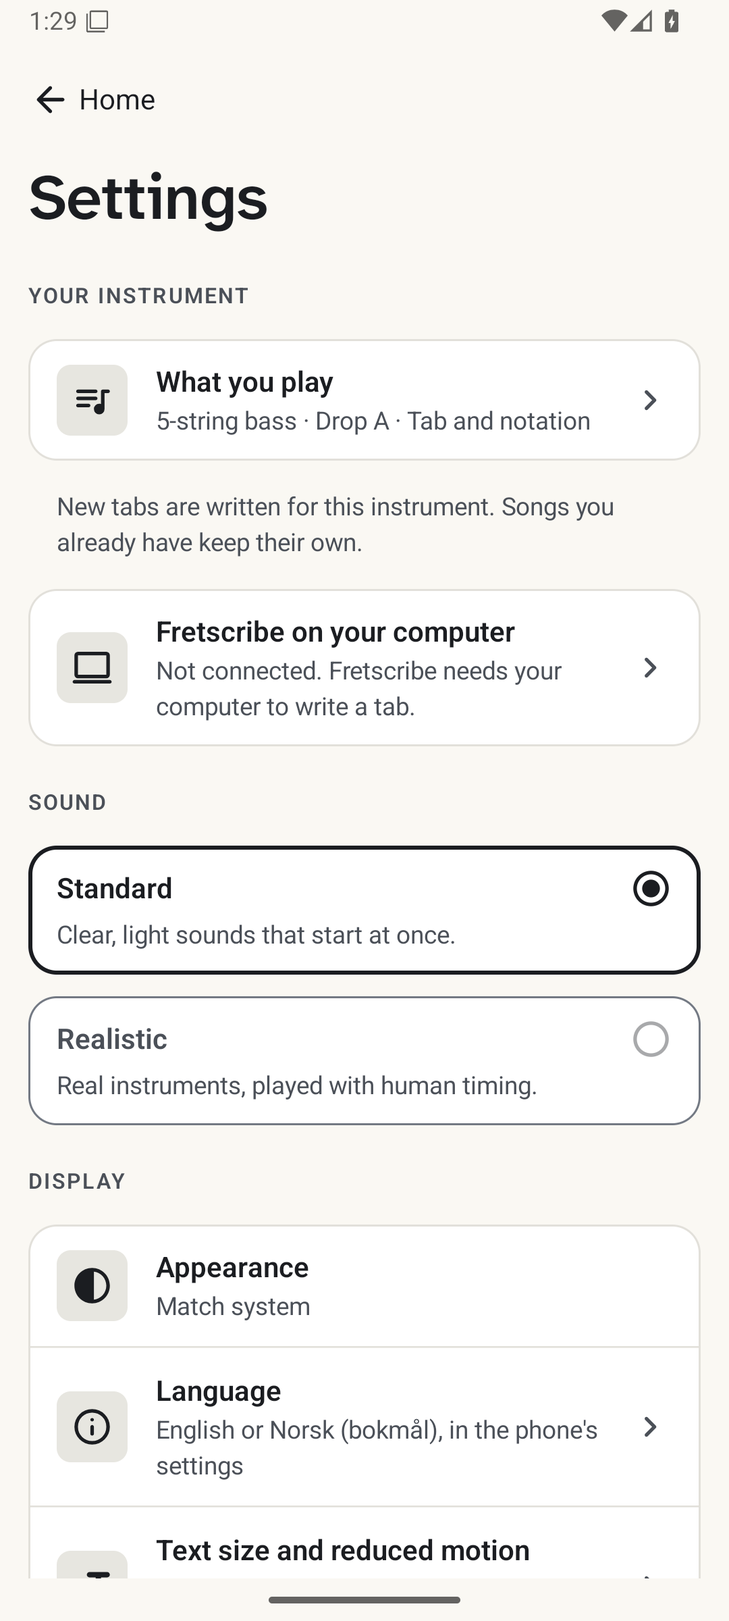
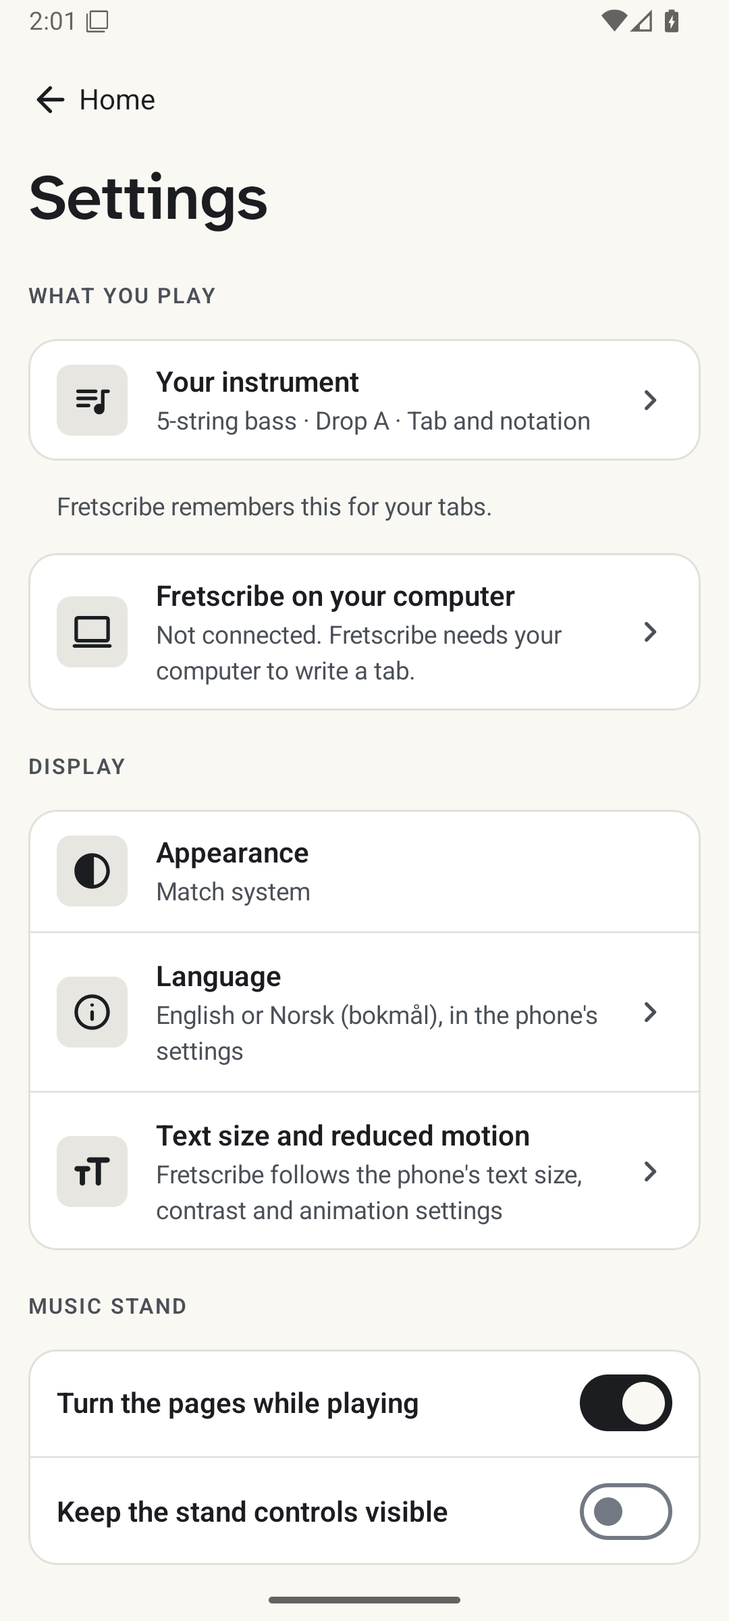
fix(fretscribe): read each row once, start each visit from what is stored, say only what is true
Your instrument's rows are one element each for a screen reader, named once,
with a drop-down mark. Each visit to the screen starts from the stored answer:
choices left without Save are not restored into a later visit. The words say
what the app does today ("Fretscribe remembers this for your tabs", "Tab looks
the same either way"), the hand question is "Which hand is on the neck?", the
flat is written out, and BEAD is spoken letter by letter. The Settings row is
named Your instrument, like the screen it opens.

In src/main, Settings shows the Sound choice only when Product.BAND_SOUNDS is
true; Fretscribe has no band sounds.

diff --git a/apps/android/app/src/androidTestFretscribe/kotlin/no/brasscribe/play/fret/YourInstrumentScreenTest.kt b/apps/android/app/src/androidTestFretscribe/kotlin/no/brasscribe/play/fret/YourInstrumentScreenTest.kt
@@ -5,6 +5,7 @@ import android.graphics.Bitmap
 import androidx.compose.ui.graphics.Color
 import androidx.compose.ui.semantics.Role
 import androidx.compose.ui.semantics.SemanticsActions
+import androidx.compose.ui.semantics.SemanticsNode
 import androidx.compose.ui.semantics.SemanticsProperties
 import androidx.compose.ui.semantics.getOrNull
 import androidx.compose.ui.test.SemanticsMatcher
@@ -165,6 +166,25 @@ class YourInstrumentScreenTest {
         rule.waitForIdle()
     }
 
+    /**
+     * The element is read once. In the tree a screen reader gets, its name is its one description, it has
+     * no text of its own and nothing under it. In the tree as composed, whatever is under it (the question,
+     * the answer, the note, the mark) is either cleared by the element or has no words.
+     */
+    private fun assertSaidOnce(tag: String, prefix: String = "fs-row-") {
+        val read = rule.onNodeWithTag("$prefix$tag").fetchSemanticsNode()
+        assertEquals("$tag: one description", 1, read.config.getOrNull(SemanticsProperties.ContentDescription)?.size)
+        assertEquals("$tag: no text beside the description", null, read.config.getOrNull(SemanticsProperties.Text))
+        assertEquals("$tag: nothing under it is read", emptyList<String>(), read.children.map { it.config.toString() })
+        val composed = rule.onNodeWithTag("$prefix$tag", useUnmergedTree = true).fetchSemanticsNode()
+        fun words(node: SemanticsNode): List<String> = node.children.flatMap { child ->
+            child.config.getOrNull(SemanticsProperties.Text).orEmpty().map { it.text } +
+                child.config.getOrNull(SemanticsProperties.ContentDescription).orEmpty() +
+                (if (child.config.isClearingSemantics) emptyList() else words(child))
+        }
+        if (!composed.config.isClearingSemantics) assertEquals("$tag: no words under it", emptyList<String>(), words(composed))
+    }
+
     private val isRadio = SemanticsMatcher.expectValue(SemanticsProperties.Role, Role.RadioButton)
     private val isPicker = SemanticsMatcher.expectValue(SemanticsProperties.Role, Role.DropdownList)
 
@@ -188,10 +208,10 @@ class YourInstrumentScreenTest {
     fun theFirstRunAsksYourInstrumentInEnglishAndBokmal() {
         val words = mapOf(
             "en-GB" to listOf("Your instrument", "Instrument, Bass", "Strings, 4 strings", "Usual tuning, Standard",
-                "Which hand frets?, Left hand (most players), Tab looks the same either way. Chord boxes and the fretboard turn round.",
+                "Which hand is on the neck?, Left hand on the neck (most players), Tab looks the same either way.",
                 "You read, Tab", "Not now", "Continue", "Guitar, Later"),
             "nb-NO" to listOf("Instrumentet ditt", "Instrument, Bass", "Strenger, 4 strenger", "Vanlig stemming, Standard",
-                "Hvilken hånd tar grepene?, Venstre hånd (de fleste), Tabben ser lik ut uansett. Akkordbokser og gripebrettet snus.",
+                "Hvilken hånd er på halsen?, Venstre hånd på halsen (de fleste), Tabben ser lik ut uansett.",
                 "Du leser, Tab", "Ikke nå", "Fortsett", "Gitar, Senere"),
         )
         for ((lang, w) in words) {
@@ -206,6 +226,7 @@ class YourInstrumentScreenTest {
                 row(tag).performScrollTo().assertIsDisplayed().assertHasClickAction()
                     .assertContentDescriptionEquals(w[1 + i]).assert(isPicker)
                     .assertHeightIsAtLeast(48.dp)
+                assertSaidOnce(tag)
             }
             rule.onNodeWithTag("fs-not-now").assertIsDisplayed().assert(hasText(w[6]))
                 .assertHeightIsAtLeast(48.dp).assertWidthIsAtLeast(48.dp)
@@ -246,9 +267,11 @@ class YourInstrumentScreenTest {
         rule.onNodeWithTag("fs-instrument-bass").assertIsEnabled().assertIsSelected()
         listOf("guitar", "ukulele", "mandolin").forEach { rule.onNodeWithTag("fs-instrument-$it").assertIsNotEnabled().assertIsNotSelected() }
         closePicker()
-        // E♭ is spoken as "E flat".
+        // The flat is written out, and BEAD is spoken letter by letter; each choice is named once.
         open("tuning", "eb-standard")
-        rule.onNodeWithTag("fs-tuning-eb-standard").assertContentDescriptionEquals("E flat standard (half a step down)")
+        rule.onNodeWithTag("fs-tuning-eb-standard").assertContentDescriptionEquals("E-flat standard (half a step down)")
+        rule.onNodeWithTag("fs-tuning-bead").assertContentDescriptionEquals("B, E, A, D")
+        listOf("standard", "eb-standard", "d-standard", "drop-d", "bead").forEach { assertSaidOnce("tuning-$it", prefix = "fs-") }
         closePicker()
     }
 
@@ -292,13 +315,23 @@ class YourInstrumentScreenTest {
         rule.runOnUiThread { vm.navigate(Screen.SETTINGS) }
         rule.waitUntil(5_000) { rule.onAllNodesWithTag("setting-seat").fetchSemanticsNodes().isNotEmpty() }
         rule.onNodeWithText("5-string bass · Drop A · Tab and notation").assertIsDisplayed()
+        // The row is named as the screen it opens, and the band's sound choice is not offered.
+        rule.onNodeWithTag("setting-seat").assert(hasText("Your instrument"))
+        assertTrue(rule.onAllNodesWithText("Realistic").fetchSemanticsNodes().isEmpty())
+        assertTrue(rule.onAllNodesWithText("Sound", ignoreCase = true).fetchSemanticsNodes().isEmpty())
         shot("settings-light")
         rule.onNodeWithTag("setting-seat").performClick()
         rule.waitUntil(5_000) { rule.onAllNodesWithTag("fs-keep").fetchSemanticsNodes().isNotEmpty() }
         assertTrue(rule.onAllNodesWithTag("fs-not-now").fetchSemanticsNodes().isEmpty())
+        // Inside Settings the screen doesn't point to Settings.
+        rule.onNodeWithText("Fretscribe remembers this for your tabs.").assertIsDisplayed()
+        assertTrue(rule.onAllNodesWithText("Settings", substring = true).fetchSemanticsNodes().none { n ->
+            n.config.getOrNull(SemanticsProperties.Text)?.any { it.text.contains("change it in Settings") } == true
+        })
+        shot("your-instrument-settings-light")
         rule.onNodeWithTag("fs-keep").assert(hasText("Save"))
         row("hand").assertContentDescriptionEquals(
-            "Which hand frets?, Right hand, instrument upside down, Tab looks the same either way. Chord boxes and the fretboard turn round.")
+            "Which hand is on the neck?, Right hand on the neck (instrument upside down), Tab looks the same either way.")
         // Back without Save changes nothing.
         pick("reads", "notation")
         rule.runOnUiThread { vm.back() }
@@ -312,6 +345,43 @@ class YourInstrumentScreenTest {
         rule.waitUntil(5_000) { vm.screen.value.last() == Screen.SETTINGS }
         assertEquals(chosen.copy(reads = Reads.NOTATION), store.load())
         rule.onNodeWithText("5-string bass · Drop A · Notation").assertIsDisplayed()
+    }
+
+    @Test
+    fun choicesLeftWithoutSaveAreGoneAfterTheAppIsRestored() {
+        language("en-GB")
+        val stored = YourInstrument(strings = 5, tuning = "drop-a")
+        store.save(stored)
+        fun openFromSettings() {
+            rule.runOnUiThread { vm.home(); vm.navigate(Screen.SETTINGS); vm.openSeatPicker(SeatPickerMode.SETTINGS) }
+            rule.waitUntil(5_000) { rule.onAllNodesWithTag("fs-keep").fetchSemanticsNodes().isNotEmpty() }
+        }
+        openFromSettings()
+        pick("reads", "notation")
+        pick("tuning", "standard")
+        // Restored in the middle of choosing (the activity is destroyed and made again from its saved
+        // state): the choices are still there, and still not stored.
+        rule.activityRule.scenario.recreate()
+        rule.waitUntil(5_000) { rule.onAllNodesWithTag("fs-keep").fetchSemanticsNodes().isNotEmpty() }
+        row("reads").assertContentDescriptionEquals("You read, Notation")
+        row("tuning").assertContentDescriptionEquals("Usual tuning, Standard")
+        assertEquals(stored, store.load())
+        // The app is stopped with the choices on screen, and comes back on Settings (as after the process
+        // was killed, when the screens come back from what was saved but not always to the same one): the
+        // state saved for this visit must not be picked up by the next. Back and the restore are asked for
+        // together, so the state is saved while the screen is still composed.
+        rule.runOnUiThread { vm.back(); rule.activity.recreate() }
+        rule.waitForIdle()
+        rule.waitUntil(5_000) { rule.onAllNodesWithTag("setting-seat").fetchSemanticsNodes().isNotEmpty() }
+        // The row opens on what is stored, and Save stores that.
+        rule.onNodeWithTag("setting-seat").performClick()
+        rule.waitUntil(5_000) { rule.onAllNodesWithTag("fs-keep").fetchSemanticsNodes().isNotEmpty() }
+        row("reads").assertContentDescriptionEquals("You read, Tab")
+        row("tuning").assertContentDescriptionEquals("Usual tuning, Drop A")
+        row("strings").assertContentDescriptionEquals("Strings, 5 strings")
+        rule.onNodeWithTag("fs-keep").performClick()
+        rule.waitUntil(5_000) { vm.screen.value.last() == Screen.SETTINGS }
+        assertEquals(stored, store.load())
     }
 
     @Test
@@ -354,7 +424,7 @@ class YourInstrumentScreenTest {
                 // Fretscribe's words: tab, and nothing about a band.
                 val shown = rule.onAllNodes(SemanticsMatcher.keyIsDefined(SemanticsProperties.Text)).fetchSemanticsNodes()
                     .flatMap { it.config[SemanticsProperties.Text] }.joinToString(" ") { it.text }
-                assertTrue(shown, shown.contains("Fretscribe") && shown.contains(if (lang == "en-GB") "Tab from any recording." else "Tab fra hvilket som helst opptak."))
+                assertTrue(shown, shown.contains("Fretscribe") && shown.contains(if (lang == "en-GB") "Tab from any recording." else "Tab fra et hvilket som helst opptak."))
                 assertFalse(shown, BRASSCRIBE_WORDS.containsMatchIn(shown))
                 // The first run is a brand moment: the tinted band with the mark in blue ink, on Fretscribe's paper.
                 val colours = if (appearance == Appearance.DARK) BrasscribeDarkColors else BrasscribeLightColors

diff --git a/apps/android/app/src/fretscribe/kotlin/no/brasscribe/play/fret/YourInstrumentScreen.kt b/apps/android/app/src/fretscribe/kotlin/no/brasscribe/play/fret/YourInstrumentScreen.kt
@@ -20,6 +20,7 @@ import androidx.compose.material3.Text
 import androidx.compose.runtime.Composable
 import androidx.compose.runtime.collectAsState
 import androidx.compose.runtime.getValue
+import androidx.compose.runtime.mutableIntStateOf
 import androidx.compose.runtime.mutableStateOf
 import androidx.compose.runtime.remember
 import androidx.compose.runtime.saveable.rememberSaveable
@@ -28,11 +29,15 @@ import androidx.compose.ui.Alignment
 import androidx.compose.ui.Modifier
 import androidx.compose.ui.platform.LocalContext
 import androidx.compose.ui.platform.testTag
+import androidx.compose.ui.res.pluralStringResource
 import androidx.compose.ui.res.stringResource
 import androidx.compose.ui.semantics.Role
 import androidx.compose.ui.semantics.clearAndSetSemantics
 import androidx.compose.ui.semantics.contentDescription
+import androidx.compose.ui.semantics.onClick
+import androidx.compose.ui.semantics.role
 import androidx.compose.ui.semantics.semantics
+import androidx.compose.ui.semantics.testTag
 import androidx.compose.ui.unit.dp
 import no.brasscribe.design.BrasscribeSpace
 import no.brasscribe.design.BrasscribeTheme
@@ -41,6 +46,7 @@ import no.brasscribe.play.PlayViewModel
 import no.brasscribe.play.R
 import no.brasscribe.play.SeatPickerMode
 import no.brasscribe.play.connection.PrefsStore
+import no.brasscribe.play.ui.BcIcon
 import no.brasscribe.play.ui.Lead
 import no.brasscribe.play.ui.ListRow
 import no.brasscribe.play.ui.PlainButton
@@ -62,14 +68,14 @@ private fun instrumentName(i: Instrument): Int = when (i) {
     Instrument.MANDOLIN -> R.string.fs_instrument_mandolin
 }
 
-/** A tuning's name as shown and as spoken ("E♭" is read "E flat"). An id without words of its own shows as it is. */
+/** A tuning's name, as shown or as spoken ("BEAD" is read letter by letter). An id without words of its own shows as it is. */
 @Composable
 private fun tuningName(id: String, spoken: Boolean = false): String = when (id) {
     "standard" -> stringResource(R.string.fs_tuning_standard)
-    "eb-standard" -> stringResource(if (spoken) R.string.fs_tuning_eb_standard_spoken else R.string.fs_tuning_eb_standard)
+    "eb-standard" -> stringResource(R.string.fs_tuning_eb_standard)
     "d-standard" -> stringResource(R.string.fs_tuning_d_standard)
     "drop-d" -> stringResource(R.string.fs_tuning_drop_d)
-    "bead" -> stringResource(R.string.fs_tuning_bead)
+    "bead" -> stringResource(if (spoken) R.string.fs_tuning_bead_spoken else R.string.fs_tuning_bead)
     "drop-a" -> stringResource(R.string.fs_tuning_drop_a)
     else -> id
 }
@@ -105,19 +111,22 @@ private class Choice(val id: String, val label: String, val spoken: String = lab
  * row that shows its answer. Asked once after the first run, where Not now leaves the defaults, and
  * opened again from Settings. Nothing is kept until Continue or Save (WCAG 3.2.2), and songs already
  * written are never changed by it.
+ *
+ * [visit] numbers this opening of the screen. The choices being made are kept under it across a
+ * rotation or a restore of the app, and an earlier visit's choices are never picked up again.
  */
 @Composable
-fun YourInstrumentScreen(vm: PlayViewModel) {
+fun YourInstrumentScreen(vm: PlayViewModel, visit: Int = 0) {
     val status by vm.status.collectAsState()
     val context = LocalContext.current
     val store = remember { yourInstrumentStore(context) }
     val firstRun = vm.seatPicker == SeatPickerMode.FIRST_RUN
     val start = remember { store.load() }
-    var instrument by rememberSaveable { mutableStateOf(start.instrument) }
-    var strings by rememberSaveable { mutableStateOf(start.strings) }
-    var tuning by rememberSaveable { mutableStateOf(start.tuning) }
-    var hand by rememberSaveable { mutableStateOf(start.hand) }
-    var reads by rememberSaveable { mutableStateOf(start.reads) }
+    var instrument by rememberSaveable(key = "your-instrument-$visit-instrument") { mutableStateOf(start.instrument) }
+    var strings by rememberSaveable(key = "your-instrument-$visit-strings") { mutableIntStateOf(start.strings) }
+    var tuning by rememberSaveable(key = "your-instrument-$visit-tuning") { mutableStateOf(start.tuning) }
+    var hand by rememberSaveable(key = "your-instrument-$visit-hand") { mutableStateOf(start.hand) }
+    var reads by rememberSaveable(key = "your-instrument-$visit-reads") { mutableStateOf(start.reads) }
     val chosen = YourInstrument(instrument, strings, tuning, hand, reads)
 
     fun keep() {
@@ -138,7 +147,7 @@ fun YourInstrumentScreen(vm: PlayViewModel) {
     ) {
         Column(verticalArrangement = Arrangement.spacedBy(BrasscribeSpace.s2)) {
             ScreenTitle(stringResource(R.string.fs_instrument_title))
-            Lead(stringResource(R.string.fs_instrument_body))
+            Lead(stringResource(if (firstRun) R.string.fs_instrument_body else R.string.fs_instrument_body_settings))
         }
         val later = stringResource(R.string.fs_later)
         RowGroup {
@@ -153,7 +162,7 @@ fun YourInstrumentScreen(vm: PlayViewModel) {
             RowDivider()
             PickerRow(
                 stringResource(R.string.fs_strings), "strings", strings.toString(),
-                YourInstrument.stringsOf(instrument).map { Choice(it.toString(), stringResource(R.string.fs_strings_count, it)) },
+                YourInstrument.stringsOf(instrument).map { Choice(it.toString(), pluralStringResource(R.plurals.fs_strings_count, it, it)) },
                 later,
             ) { id ->
                 // A tuning the new string count doesn't have goes back to standard.
@@ -200,9 +209,17 @@ private fun PickerRow(
     val spoken = listOfNotNull(label, current?.spoken, note).joinToString(", ")
     ListRow(
         label, { open = true },
-        modifier = Modifier.semantics { contentDescription = spoken }.testTag("fs-row-$tag"),
+        // One element, named once: the question, the answer and the note. The texts and the mark inside are
+        // not read again. Clearing also drops the row's own click and role, so they are set here.
+        modifier = Modifier.clearAndSetSemantics {
+            contentDescription = spoken
+            role = Role.DropdownList
+            onClick { open = true; true }
+            testTag = "fs-row-$tag"
+        },
         subtitle = listOfNotNull(current?.label, note).joinToString("\n"),
-        chevron = false, role = Role.DropdownList,
+        chevron = false,
+        trailing = { BcIcon(R.drawable.ic_bc_choose, null, tint = c.textMuted) },
     )
     if (!open) return
     AlertDialog(

diff --git a/apps/android/app/src/fretscribe/kotlin/no/brasscribe/play/Product.kt b/apps/android/app/src/fretscribe/kotlin/no/brasscribe/play/Product.kt
@@ -2,6 +2,10 @@ package no.brasscribe.play
 
 import androidx.activity.compose.BackHandler
 import androidx.compose.runtime.Composable
+import androidx.compose.runtime.LaunchedEffect
+import androidx.compose.runtime.mutableIntStateOf
+import androidx.compose.runtime.saveable.rememberSaveable
+import androidx.compose.runtime.setValue
 import androidx.compose.runtime.collectAsState
 import androidx.compose.runtime.getValue
 import no.brasscribe.play.fret.YourInstrumentScreen
@@ -14,6 +18,9 @@ object Product {
     /** The scheme of the pairing link in the computer's QR code: Brasscribe's, until Fretscribe has its own. */
     const val PAIR_SCHEME = "brasscribe"
 
+    /** Fretscribe carries no band sounds, so Settings has no choice between them. */
+    const val BAND_SOUNDS = false
+
     /**
      * Brasscribe's screens for now, under Fretscribe's name, but for one: where Brasscribe asks "What do
      * you play?" (after the first run, and from Settings), Fretscribe asks Your instrument. "Who played
@@ -22,9 +29,14 @@ object Product {
     @Composable
     fun Root(vm: PlayViewModel) {
         val stack by vm.screen.collectAsState()
-        if (stack.last() == Screen.WHAT_DO_YOU_PLAY && vm.seatPicker != SeatPickerMode.WHO_PLAYED) {
+        // Counts the visits to Your instrument, so each one starts from what is stored: choices left
+        // without Save are gone the next time, also after the app was stopped and restored in between.
+        var visit by rememberSaveable { mutableIntStateOf(0) }
+        val asking = stack.last() == Screen.WHAT_DO_YOU_PLAY && vm.seatPicker != SeatPickerMode.WHO_PLAYED
+        LaunchedEffect(asking) { if (!asking) visit++ }
+        if (asking) {
             BackHandler(enabled = stack.size > 1) { vm.back() }
-            YourInstrumentScreen(vm)
+            YourInstrumentScreen(vm, visit)
         } else PlayRoot(vm)
     }
 

diff --git a/apps/android/app/src/main/kotlin/no/brasscribe/play/ui/ProblemScreen.kt b/apps/android/app/src/main/kotlin/no/brasscribe/play/ui/ProblemScreen.kt
@@ -171,8 +171,9 @@ fun SettingsScreen(vm: PlayViewModel) {
                 subtitle = connectionText(vm, connection),
             )
         }
-        SectionLabel(stringResource(R.string.sound))
-        ChoiceGroup(2) {
+        // The sound choice is for the band's instruments: a product without them leaves it out.
+        if (no.brasscribe.play.Product.BAND_SOUNDS) SectionLabel(stringResource(R.string.sound))
+        if (no.brasscribe.play.Product.BAND_SOUNDS) ChoiceGroup(2) {
             ChoiceCard(stringResource(R.string.sound_baseline), stringResource(R.string.settings_sound_standard), !realistic, true, 0) {
                 realistic = false; vm.container.realisticByDefault = false
             }

diff --git a/apps/android/app/src/brasscribe/kotlin/no/brasscribe/play/Product.kt b/apps/android/app/src/brasscribe/kotlin/no/brasscribe/play/Product.kt
@@ -9,6 +9,9 @@ object Product {
     /** The scheme of the pairing link in the computer's QR code. */
     const val PAIR_SCHEME = "brasscribe"
 
+    /** The band's sounds are in this app, so Settings offers the choice between them. */
+    const val BAND_SOUNDS = true
+
     @Composable
     fun Root(vm: PlayViewModel) = PlayRoot(vm)
 

diff --git a/apps/android/README.md b/apps/android/README.md
@@ -66,7 +66,7 @@ Each app wears its product's design system: Brasscribe's (`design/`, generated i
   - the microphone through Oboe
   - other apps' playback through AudioPlaybackCapture. Play shows an opt-out and DRM notice first, asks for MediaProjection consent, and runs a foreground service of type `mediaProjection` (type `microphone` for mic recording). After 5 s of silence it shows "Nothing is coming through…". Android offers no API that reports an app's opt-out, so silence is the signal.
 - **What do you play?** (`ui/WhatDoYouPlayScreen.kt`, `MyInstrument.kt`) asks the player's instrument and part once (and in Settings), or "I conduct or listen". The score opens on that seat's part, in the clef the seat reads; each score keeps the seat it was made for when the instrument changes later. A seat the lineup has no part for gets the part it maps to, and says so (a trumpet takes the lead part). The tune is only offered to seats the core says can carry it, and a solo take for the percussion seat is refused up front with the reason.
-- **Your instrument** (Fretscribe; `app/src/fretscribe/.../fret/`) takes the place of What do you play?: `Product.Root` shows it where Brasscribe's screen would come, after the first run and from Settings, and `Product.instrumentValue` is the value on the Settings row. One question per row, each a picker row: instrument (the bass; guitar, ukulele and mandolin are listed as "Later"), strings, usual tuning (the `target-fretted` presets of that bass, standard first), which hand frets, and what you read. Nothing is kept until Continue or Save, and Not now leaves a four-string bass in standard tuning, read as tab. `YourInstrument.jobOptions()` gives the `bass-tab` job's `instrument`, `tuning` and `layout`; no job is sent with them yet. Like What do you play?, it is asked only when the native core is in the build. Its tests are `YourInstrumentTest` (`app/src/testFretscribe`, run with `./gradlew testFretscribeDebugUnitTest`; `make check` does not run it) and `YourInstrumentScreenTest` (`app/src/androidTestFretscribe`).
+- **Your instrument** (Fretscribe; `app/src/fretscribe/.../fret/`) takes the place of What do you play?: `Product.Root` shows it where Brasscribe's screen would come, after the first run and from Settings, `Product.instrumentValue` is the value on the Settings row, and `Product.BAND_SOUNDS` leaves the Sound choice out of Fretscribe's Settings (it has no band sounds). One question per row, each a picker row: instrument (the bass; guitar, ukulele and mandolin are listed as "Later"), strings, usual tuning (the `target-fretted` presets of that bass, standard first), which hand is on the neck, and what you read. Each visit starts from what is stored: choices left without Save are not picked up again, also after the app was stopped and restored. Nothing is kept until Continue or Save, and Not now leaves a four-string bass in standard tuning, read as tab. `YourInstrument.jobOptions()` gives the `bass-tab` job's `instrument`, `tuning` and `layout`; no job is sent with them yet. Like What do you play?, it is asked only when the native core is in the build. Its tests are `YourInstrumentTest` (`app/src/testFretscribe`, run with `./gradlew testFretscribeDebugUnitTest`; `make check` does not run it) and `YourInstrumentScreenTest` (`app/src/androidTestFretscribe`).
 - **Fretscribe's words** are string overrides in `app/src/fretscribe/res/values` and `values-nb`: a string there replaces Brasscribe's of the same name. The first run, Home, Your instrument and Settings are reworded for tab; the screens after them still say what Brasscribe says. Lint does not notice an override that is missing in `values-nb`, so add both.
 - **"What is this?"** picks the engine profile: `solo`, `brass-band`, `orchestra-with-soloist` or `pop-rock`. For a solo it also asks where to transcribe: on the phone (offline) or on the companion engine. A brass band goes to the computer when it is there and is otherwise a quick draft on the phone; **Change** offers either.
 - **Transcription** shows a plain-language step, percent, "step n of m", time left and Cancel. A cancel also cancels the engine job.

diff --git a/design/fretscribe/flows.md b/design/fretscribe/flows.md
@@ -43,11 +43,11 @@ tuning. One question per row, on one screen:
 | Instrument | Guitar · Bass · Ukulele · Mandolin (Banjo later) | Guitar |
 | Strings | Guitar 6/7/8 · Bass 4/5/6 · Ukulele: high G / low G | 6 · 4 · high G |
 | Usual tuning | Standard, E♭ standard, Drop D, DADGAD, Open G, …, **Custom** (per string, note name and Hz) | Standard |
-| Which hand frets? | Left hand (most players) · Right hand · Right hand, guitar upside down | Left hand |
+| Which hand is on the neck? | Left hand on the neck (most players) · Right hand on the neck (left-handed instrument) · Right hand on the neck (instrument upside down) | Left hand |
 | You read | Tab · Tab and notation · Notation | Tab |
 
-- The handedness row explains itself in one line: "Tab looks the same either way. Chord boxes and the
-  fretboard turn round."
+- The handedness row explains itself in one line: "Tab looks the same either way." Once there are
+  chord boxes and a fretboard to draw, it adds "Chord boxes and the fretboard turn round."
 - Level is not asked here. **Easier / As played** appears where it matters (Practice › Play this in…).
 - Reference pitch (A = 440) lives in Settings, not here.
 

diff --git a/design/fretscribe/brand/brand.md b/design/fretscribe/brand/brand.md
@@ -129,6 +129,6 @@ alone; no jargon; English and Norwegian both first-class; never "we").
 | Repeat a passage | Repeat bars 12 to 16 · Stop repeating | Gjenta takt 12 til 16 · Slutt å gjenta | Loop, A–B |
 | Hands-free | Pedals and keys | Pedaler og taster | HID, MIDI (in Settings detail only) |
 | Stop touches on the tab | Lock the tab | Lås tabben | Lock screen |
-| Hand | Which hand frets? | Hvilken hånd tar grepene? | lefty mode |
+| Hand | Which hand is on the neck? · Left hand on the neck (most players) · Right hand on the neck (left-handed instrument) | Hvilken hånd er på halsen? · Venstre hånd på halsen (de fleste) · Høyre hånd på halsen (venstrehendt instrument) | lefty mode, "frets" as a verb |
 | Output | Share or print | Del eller skriv ut | Export (desktop menu bar only) |
 | Your computer | Fretscribe on your computer (installer and app lists: Bandroom) | Fretscribe på datamaskinen | engine, server |

diff --git a/design/fretscribe/system.md b/design/fretscribe/system.md
@@ -69,8 +69,8 @@ landscape shows two to three systems. Neither ever shows tab smaller than `tab.l
 
 ## 5. Your instrument
 
-A settings group and the first-run screen: Instrument, Strings, Usual tuning, Which hand frets?, You
-read. Each is a native picker row with its current value. Reference pitch (A = 440) sits under
+A settings group and the first-run screen: Instrument, Strings, Usual tuning, Which hand is on the
+neck?, You read. Each is a native picker row with its current value. Reference pitch (A = 440) sits under
 **Advanced**. Changing the instrument never changes songs already written; each song keeps its own.
 
 ## 6. Pedals and keys
